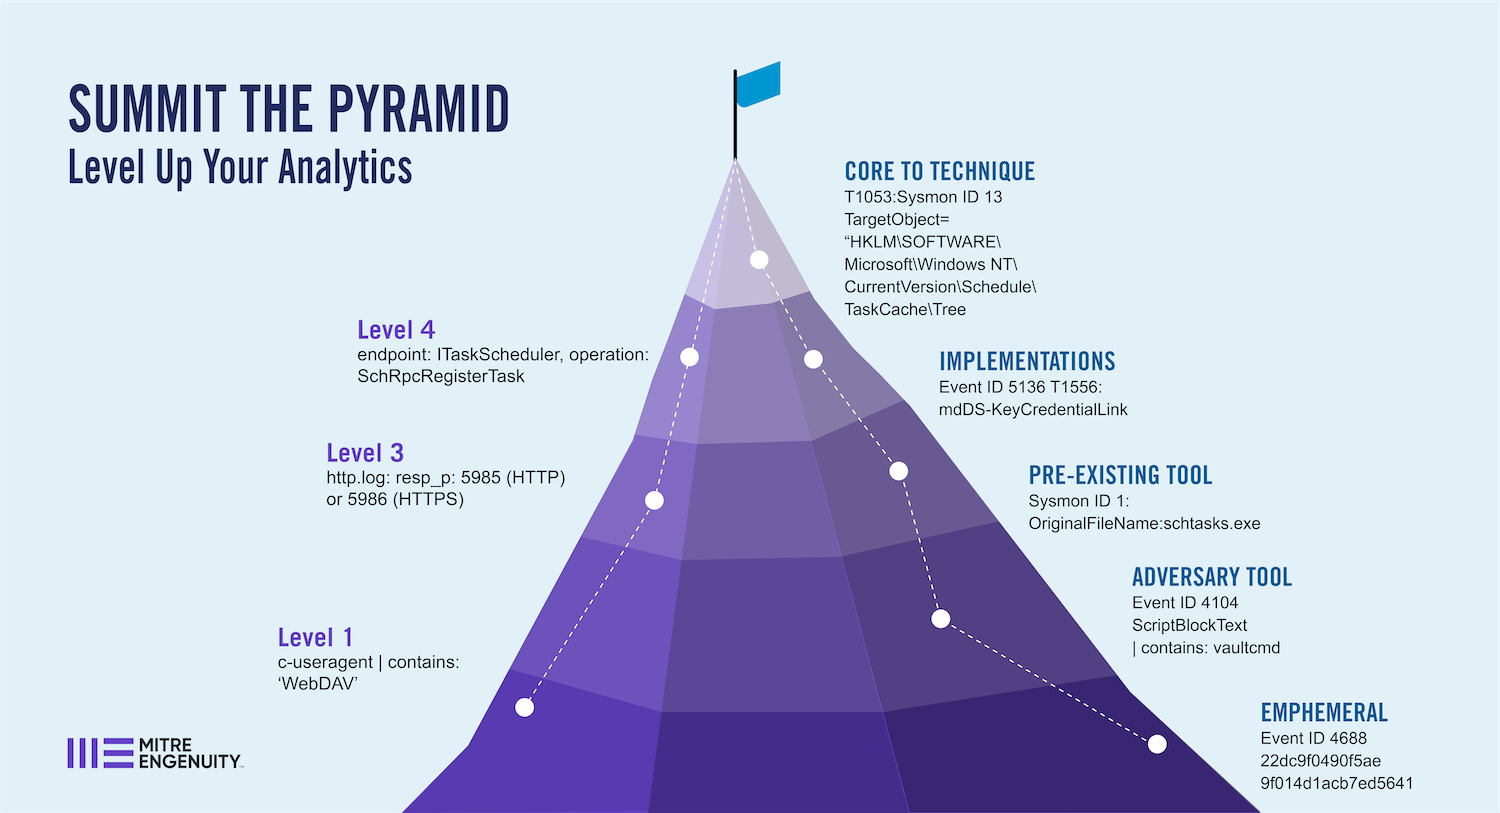
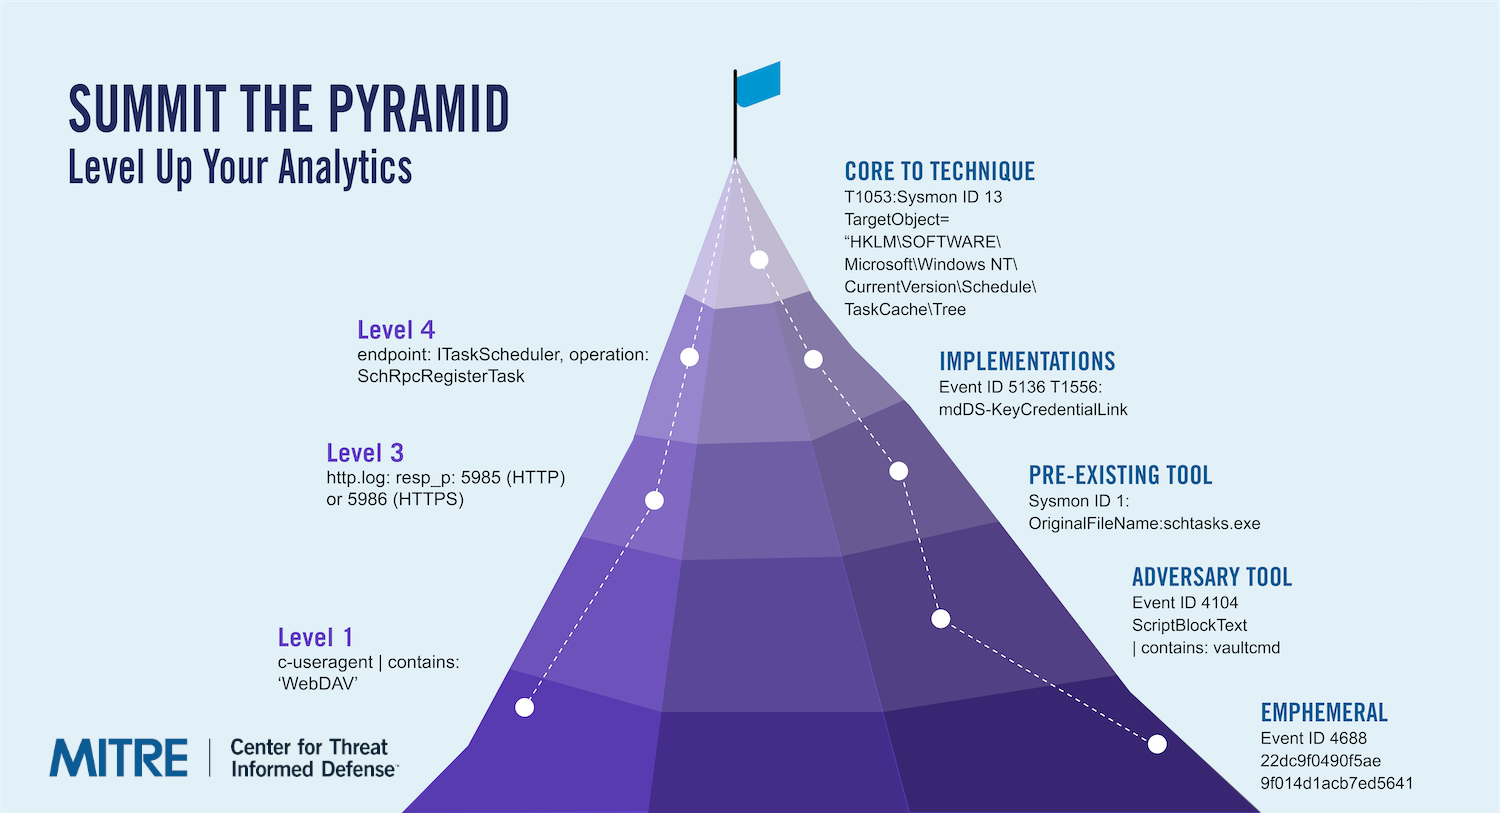
Fix the stylesheet
I accidentally deleted the ctid.css file while syncing with
template-sphinx and didn't notice because the default RTD theme uses a
very simlar shade of blue to MITRE blue.

Changed region(s): [[0.0307, 0.8918, 0.276, 0.9533]]

diff --git a/docs/_static/css/ctid.css b/docs/_static/css/ctid.css
@@ -1,0 +1,284 @@
+/* Document styles */
+
+body {
+    /* MITRE Brand Colors */
+    --mitre-blue: rgb(0, 91, 148);
+    --mitre-highlighter: rgb(255, 246, 1);
+    --mitre-dark-navy: rgb(11, 35, 56);
+    --mitre-navy: rgb(13, 47, 79);
+    --mitre-light-blue: rgb(135, 222, 255);
+    --mitre-black: rgb(17, 25, 33);
+    --mitre-dark-gray: rgb(17, 25, 33);
+    --mitre-silver: rgb(212, 211, 212);
+    --mitre-light-silver: rgb(241, 243, 244);
+    --mitre-white: rgb(255, 255, 255);
+
+    /* These colors are holdovers from the old Engenuity branding guide. */
+    --me-ext-teal-highlighter: #29E6D0;
+    --me-ext-gray-green: #4DA185;
+    --me-ext-cranberry-highlighter: #FF006B;
+    --me-ext-orange-highlighter: #FF8A36;
+    --me-ext-yellow-dark: #FEDB22;
+
+    color: var(--mitre-black);
+    font-family: Arial, Helvetica, sans-serif;
+}
+
+@media screen and (min-width: 1100px) {
+    .wy-nav-content-wrap {
+        background-color: var(--mitre-light-silver);
+    }
+
+    .wy-nav-content {
+        background-color: var(--mitre-white);
+    }
+}
+
+em.newsgroup {
+    background-color: var(--mitre-highlighter);
+    padding: 5px;
+    font-style: normal;
+    font-weight: 700;
+}
+
+/* Anchor styles */
+
+.rst-content a,
+.rst-content a:active,
+.rst-content a:visited {
+    color: var(--mitre-blue);
+    text-decoration: underline;
+}
+
+/* Don't underline font awesome icons in links. */
+.rst-content a .fa,
+.rst-content a:active .fa,
+.rst-content a:visited .fa {
+    text-decoration: none;
+    padding-right: 0.25em;
+}
+
+/* Don't underline the permalink icon next to headers. */
+.rst-content a.headerlink,
+.rst-content a.headerlink:active,
+.rst-content a.headerlink:visited {
+    text-decoration: none;
+}
+
+.rst-content a:hover {
+    color: var(--me-text-color);
+}
+
+.rst-content.style-external-links a.reference.external {
+    padding-right: 1em;
+}
+
+.rst-content.style-external-links a.reference.external:after {
+    font-size: 80%;
+    position: absolute;
+}
+
+/* Bootstrap button styles */
+
+.btn,
+.btn:focus,
+.btn-primary,
+.btn-primary:focus {
+    background-color: var(--mitre-navy);
+}
+
+.btn:hover,
+.btn-primary:hover {
+    background-color: var(--mitre-dark-navy);
+}
+
+.btn-secondary,
+.btn-secondary:focus {
+    background-color: var(--mitre-black);
+}
+
+.btn-secondary:hover {
+    background-color: #737373;
+}
+
+.btn-link,
+.btn-link:focus {
+    color: var(--mitre-navy);
+}
+
+.btn-link:hover {
+    color: var(--mitre-dark-navy) !important;
+}
+
+.rst-content a.btn,
+.rst-content a.btn:active,
+.rst-content a.btn:visited {
+    color: var(--mitre-white);
+    font-weight: normal;
+    text-decoration: none;
+}
+
+/* Table styles */
+.rst-content div.wy-table-responsive table.docutils {
+    width: 100%;
+    table-layout: fixed;
+}
+
+.rst-content div.wy-table-responsive table.docutils thead th,
+.rst-content div.wy-table-responsive table.docutils tbody td {
+    white-space: normal;
+}
+
+.rst-content div.wy-table-responsive table.docutils thead th p,
+.rst-content div.wy-table-responsive table.docutils tbody td p {
+    margin: 0.5em 0;
+}
+
+.rst-content div.wy-table-responsive table.docutils thead th code.docutils,
+.rst-content div.wy-table-responsive table.docutils tbody td code.docutils {
+    white-space: pre-wrap;
+}
+
+/* Table of contents styles */
+.rst-content .toctree-wrapper a {
+    font-weight: normal;
+}
+
+.rst-content .toctree-wrapper ul li ul {
+    margin-top: 0;
+}
+
+/* Side bar styles */
+
+.wy-side-nav-search div.version {
+    color: var(--mitre-white);
+}
+
+.wy-nav-top {
+    background-color: var(--mitre-blue);
+}
+
+.wy-nav-side {
+    /* No MITRE brand color seems to work here. */
+    background-color: rgb(50, 50, 50);
+}
+
+.wy-side-nav-search a {
+    font-size: 1.6em;
+}
+
+.wy-side-nav-search a.icon img.logo {
+    max-width: 10rem;
+}
+
+.wy-side-nav-search {
+    background-color: var(--mitre-blue);
+}
+
+.wy-menu-vertical p.caption {
+    color: var(--mitre-white);
+}
+
+.wy-menu-vertical li.current {
+    background-color: var(--mitre-light-silver);
+}
+
+.wy-menu-vertical a:hover {
+    background-color: var(--mitre-blue);
+}
+
+/* Admonition styles */
+
+.admonition {
+    background-color: var(--mitre-light-silver) !important;
+    color: var(--mitre-black);
+}
+
+.admonition .admonition-title {
+    padding: 0.8em 1em !important;
+}
+
+.admonition a,
+.admonition a.reference.external:after {
+    color: var(--mitre-black) !important;
+}
+
+.admonition.attention .admonition-title {
+    background-color: var(--me-ext-yellow-dark);
+    color: var(--mitre-black);
+}
+
+.admonition.caution .admonition-title,
+.admonition.warning .admonition-title {
+    background-color: var(--me-ext-orange-highlighter);
+    color: var(--mitre-black);
+}
+
+.admonition.danger .admonition-title,
+.admonition.error .admonition-title {
+    background-color: var(--me-ext-cranberry-highlighter);
+    color: var(--mitre-white);
+}
+
+.admonition.important .admonition-title {
+    background-color: var(--me-ext-gray-green);
+    color: var(--mitre-white);
+}
+
+.admonition.hint .admonition-title,
+.admonition.tip .admonition-title {
+    background-color: var(--mitre-blue);
+    color: var(--mitre-white);
+}
+
+.admonition.note .admonition-title,
+.admonition.seealso .admonition-title {
+    background-color: var(--me-ext-teal-highlighter);
+    color: var(--mitre-black);
+}
+
+/* Figure styles */
+
+.rst-content figure {
+    margin-bottom: 1em !important;
+}
+
+.rst-content figcaption p span.caption-text {
+    font-size: 10pt;
+    font-style: initial;
+    color: #999;
+}
+
+/* Epigraph styles */
+
+blockquote.epigraph {
+    background-color: var(--mitre-light-silver);
+    margin: 2em 0;
+    padding: 1em;
+    border-top: 3px solid #c9c9c9;
+    border-bottom: 3px solid #c9c9c9;
+}
+
+blockquote.epigraph p {
+    font-size: 16pt;
+}
+
+blockquote.epigraph p.attribution {
+    margin: 0;
+    font-size: 12pt;
+    font-style: italic;
+}
+
+/* Footnote styles */
+.rst-content .footnote-reference {
+    font-size: 8pt;
+    vertical-align: super;
+    line-height: inherit;
+    left: -0.3em;
+    top: initial;
+}
+
+/* Code highlighting */
+.highlight {
+    background-color: var(--mitre-light-silver);
+}
